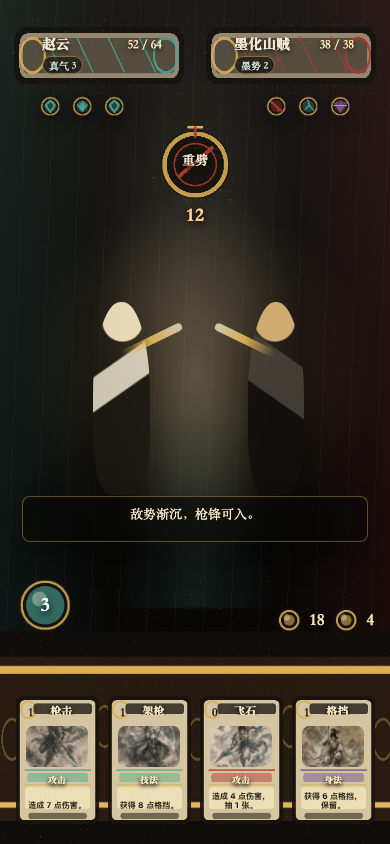
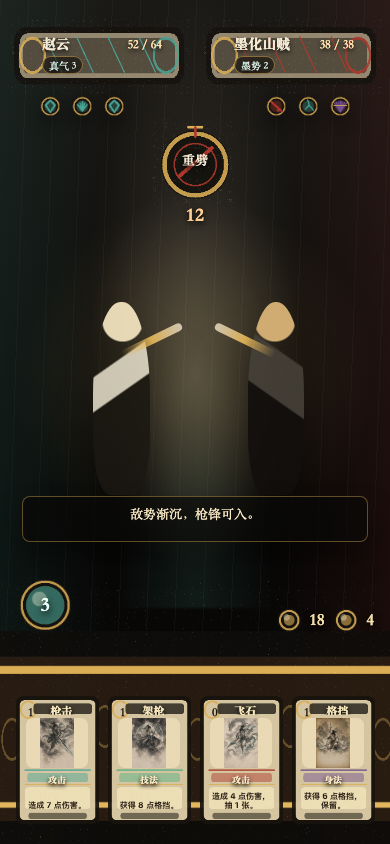
fix: show full prototype card art

diff --git a/docs/superpowers/prototypes/combat-ui-kit/styles.css b/docs/superpowers/prototypes/combat-ui-kit/styles.css
@@ -364,10 +364,10 @@ button {
 
 .combat-ui-prototype-card-art {
   position: absolute;
-  top: 24%;
+  top: 18%;
   right: 14%;
   left: 14%;
-  height: 31%;
+  height: 38%;
   overflow: hidden;
   border-radius: 7px;
   background: rgba(241, 226, 188, 0.68);
@@ -376,8 +376,8 @@ button {
 .combat-ui-prototype-card-art img {
   width: 100%;
   height: 100%;
-  object-fit: cover;
-  object-position: 50% 38%;
+  object-fit: contain;
+  object-position: center;
 }
 
 .card-type {

diff --git a/tests/e2e/combat-ui-prototype.spec.ts b/tests/e2e/combat-ui-prototype.spec.ts
@@ -5,9 +5,11 @@ async function expectCardTitlesClearArt(page: Page): Promise<void> {
     items.map((item) => {
       const title = item.querySelector(".card-title")?.getBoundingClientRect();
       const art = item.querySelector(".combat-ui-prototype-card-art")?.getBoundingClientRect();
+      const artImage = item.querySelector(".combat-ui-prototype-card-art img");
+      const objectFit = artImage ? getComputedStyle(artImage).objectFit : undefined;
 
       return title && art
-        ? { titleBottom: title.bottom, artTop: art.top }
+        ? { titleBottom: title.bottom, artTop: art.top, artHeight: art.height, cardHeight: item.getBoundingClientRect().height, objectFit }
         : undefined;
     })
   );
@@ -15,6 +17,8 @@ async function expectCardTitlesClearArt(page: Page): Promise<void> {
   for (const rect of cardRects) {
     expect(rect).toBeDefined();
     expect(rect!.titleBottom).toBeLessThanOrEqual(rect!.artTop - 2);
+    expect(rect!.artHeight).toBeGreaterThan(rect!.cardHeight * 0.34);
+    expect(rect!.objectFit).toBe("contain");
   }
 }
 